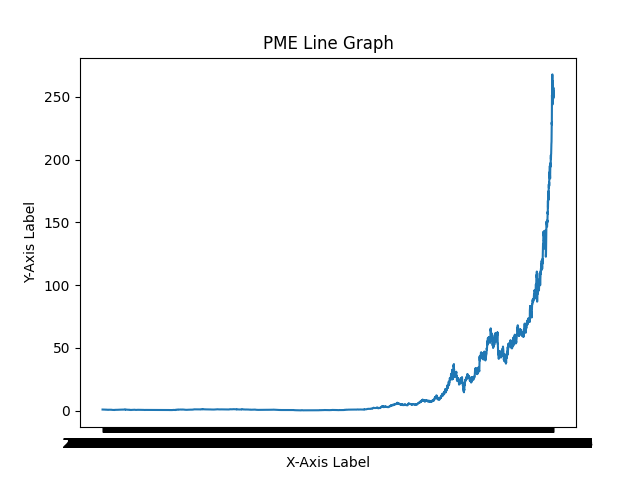
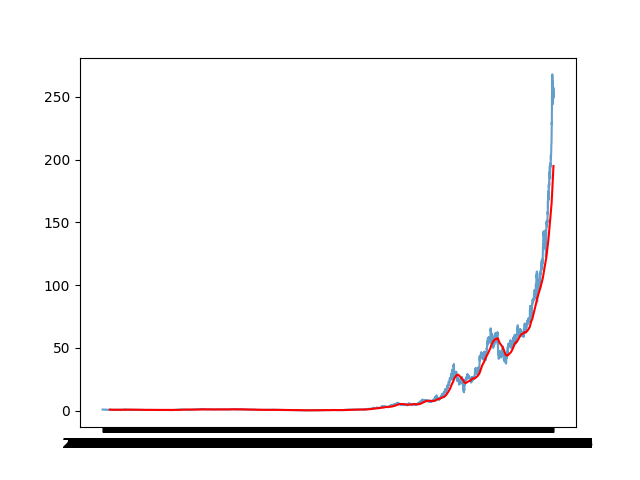
started RandomForrestRegression model

diff --git a/random_forest.py b/random_forest.py
@@ -1,0 +1,121 @@
+import pickle as pkl
+import pandas as pd
+import matplotlib.pyplot as plt
+import matplotlib.dates as mdates
+import os
+from sklearn.ensemble import RandomForestRegressor
+from sklearn.metrics import root_mean_squared_error
+from pathlib import Path
+
+def create_output_folder(file_name, ticker):
+    dir_name = f"PDAOutput/PDA_{ticker}"
+    os.makedirs(dir_name, exist_ok=True)
+
+def get_ticker(file_name):
+    strName = file_name.replace("datasets\\","")
+    NameParts = strName.split('.')
+    return NameParts[0]
+
+def create_lagged_features(df, target_col, lags):
+    for i in range(1, lags + 1):
+        df[f'lag_{i}'] = df[target_col].shift(i)
+    return df.dropna()
+
+def main():
+    datasets = Path("datasets").rglob("*.csv")
+
+    for data in datasets:
+        file_name = str(data)
+        df = pd.read_csv(data)
+        ticker = get_ticker(file_name)
+        create_output_folder(file_name, ticker)
+
+        df['Date'] = pd.to_datetime(df['Date'])
+        df = df.set_index('Date').sort_index()
+
+        df['Close_lag1'] = df['Close'].shift(1)
+        df['Close_lag2'] = df['Close'].shift(2)
+        df['Close_lag3'] = df['Close'].shift(3)
+
+        # Set features (X) and target (y)
+        X = df[['Close_lag1', 'Close_lag2', 'Close_lag3', 'High', 'Low', 'Open', 'Volume']]
+        y = df['Close'].loc[X.index]
+
+        # Split Data
+        train_size = int(len(X) * 0.8)
+        X_train, X_test = X.iloc[:train_size], X.iloc[train_size:]
+        y_train, y_test = y.iloc[:train_size], y.iloc[train_size:]
+
+        # Initialise RandomForest Model
+        rfr = RandomForestRegressor(n_estimators=100, random_state=1)
+
+        # Fit model to training data
+        rfr.fit(X_train, y_train)
+
+        # Recursively predicting on test data
+        rfr_preds = []
+        last_known = X_test.iloc[0].copy()
+
+        for i in range(len(X_test)):
+            rfr_pred = rfr.predict(last_known.to_frame().T)[0]
+            rfr_preds.append(rfr_pred)
+
+            # roll lag values
+            last_known['Close_lag3'] = last_known['Close_lag2']
+            last_known['Close_lag2'] = last_known['Close_lag1']
+            last_known['Close_lag1'] = rfr_pred
+
+            # updating non lag features with actual test values
+            if i+1 < len(X_test):
+                next_row = X_test.iloc[i+1]
+                last_known['High'] = next_row['High']
+                last_known['Low'] = next_row['Low']
+                last_known['Open'] = next_row['Open']
+                last_known['Volume'] = next_row['Volume']
+
+        rfr_preds = pd.Series(rfr_preds, index=y_test.index)
+
+        # Model Performance Evaluation
+        rmse = root_mean_squared_error(y_test, rfr_preds)
+        print(f"{ticker} RMSE: {rmse}")
+
+        # FUTURE DATA FORECASTING (OPTIONAL) JUST MESSING AROUND
+        future_steps = 90
+        future_preds = []
+        last_known = X.iloc[-1].copy()
+        last_date = df.index[-1]
+
+        for i in range(future_steps):
+            pred = rfr.predict(last_known.to_frame().T)[0]
+            future_preds.append(pred)
+
+            # roll lag values
+            last_known['Close_lag3'] = last_known['Close_lag2']
+            last_known['Close_lag2'] = last_known['Close_lag1']
+            last_known['Close_lag1'] = pred
+
+        future_dates = pd.date_range(start=last_date + pd.Timedelta(days=1), periods=future_steps, freq='D')
+        future_preds = pd.Series(future_preds, index=future_dates)
+        # FUTURE DATA FORECASTING ENDS
+
+        # Visualise
+        plt.figure(figsize=(12, 6))
+        
+        plt.plot(y_test.index, y_test, label='Actual Data', color='blue')
+        plt.plot(y_test.index, rfr_preds, label='Predicted Data', color='red', linestyle='--')
+        plt.plot(future_preds.index, future_preds, label='Forecast (Future)', color='green', linestyle='--') # FUTURE DATA FORECASTING (OPTIONAL)
+        
+        plt.title('Random Forest Time Series Forecast vs. Actual')
+        plt.legend()    
+        plt.grid(True)
+        plt.xlabel('Date')
+        plt.ylabel('Value')
+        
+        plt.gca().xaxis.set_major_locator(mdates.MonthLocator(interval=3))
+        plt.gca().xaxis.set_major_formatter(mdates.DateFormatter('%Y-%m-%d'))
+        plt.xticks(rotation=45)
+
+        plt.savefig(f"PDAOutput/PDA_{ticker}/{ticker}_Random_Forest.png")
+        plt.clf()
+
+main()

diff --git a/EDAMo.py b/EDAMo.py
@@ -71,7 +71,6 @@ def genCorrMatrix(data, ticker):
 # Visualisation 3 - Line Graph
 def genLineGraph(data, ticker):
     dirName = f"EDAOutput/EDA_{ticker}"
-
     file_path = f"{dirName}/{ticker}_Line.png"
 
     x_val = data['Date']
@@ -88,6 +87,9 @@ def genLineGraph(data, ticker):
 
 # Visulisation 4 - Moving Average Graph (What's the Moving Average?)
 def genMovingAvgGraph(data, ticker):
+    dirName = f"EDAOutput/EDA_{ticker}"
+    file_path = f"{dirName}/{ticker}_MA_Line.png"
+
     data['Moving_Average'] = data['Close'].rolling(window=100).mean()    
     
     x_val = data['Date']
@@ -95,7 +97,8 @@ def genMovingAvgGraph(data, ticker):
     
     plt.plot(x_val, data['Close'], label='Original Data', alpha=0.7)
     plt.plot(x_val, y_val, color='red')
-    plt.show()
+
+    plt.savefig(file_path)
     plt.clf()
 
 # EDA - What's the average Closing price?
